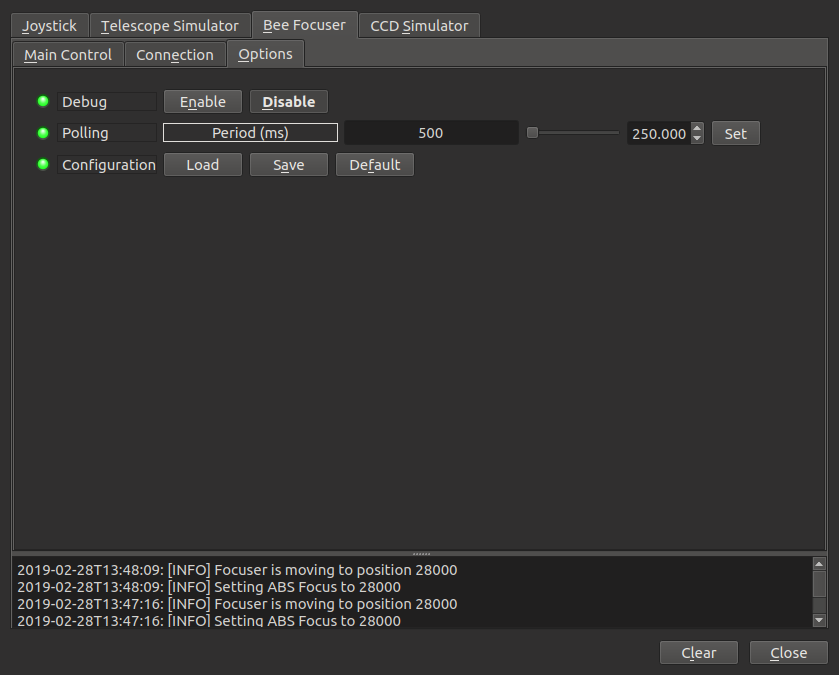
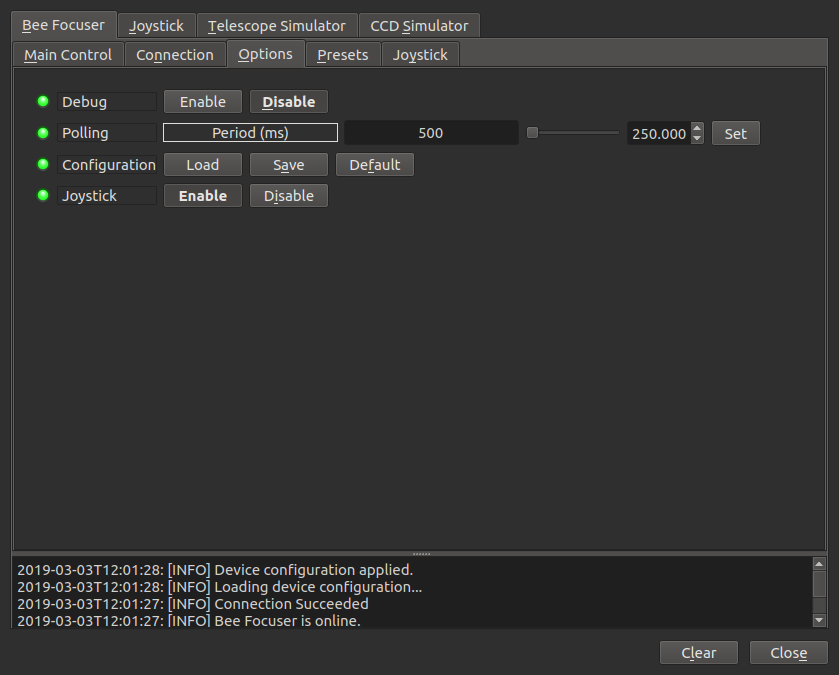
Add more tabs to documentation

diff --git a/indi_docs/indi_usage_docs.md b/indi_docs/indi_usage_docs.md
@@ -81,6 +81,23 @@ pressed twice.  The Focuser moved by -2000 each time.
 
 ![alt text](https://raw.githubusercontent.com/glowmouse/beefocus/master/indi_docs/con_sim_main_rel_move_in.png "Relative Move -2000")
  
+A game controller is a convenient way to manually operate the focuser.  To use
+the game controller, set a relative focuser movement rate that works for 
+setup (100 was good for me),  turn on Joystick in the Options Tab
+
+![alt text](https://raw.githubusercontent.com/glowmouse/beefocus/master/indi_docs/options.png "options")
+
+And set-up the Joystick Buttons in the Joystick TAB.  I used the bottom
+buttons on my game controller to focus in and out,  and the "A" button
+to Abort.
+
+![alt text](https://raw.githubusercontent.com/glowmouse/beefocus/master/indi_docs/joystick.png "joystick")
+
+I know that absolute position 28000 is close to my telescope's focal point, 
+so I've added a 28000 entry to the Presets tab. 
+
+![alt text](https://raw.githubusercontent.com/glowmouse/beefocus/master/indi_docs/presets.png "Presets")
+
 
 Installing Firmware 
 -------------------
